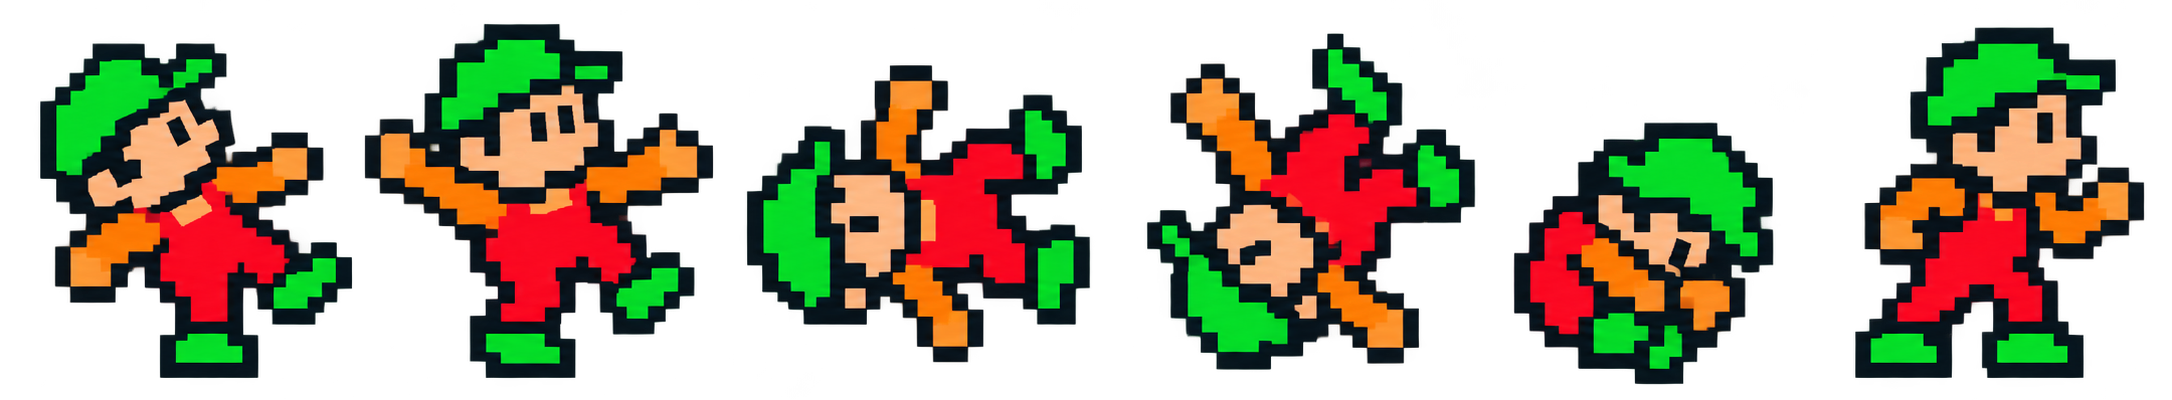
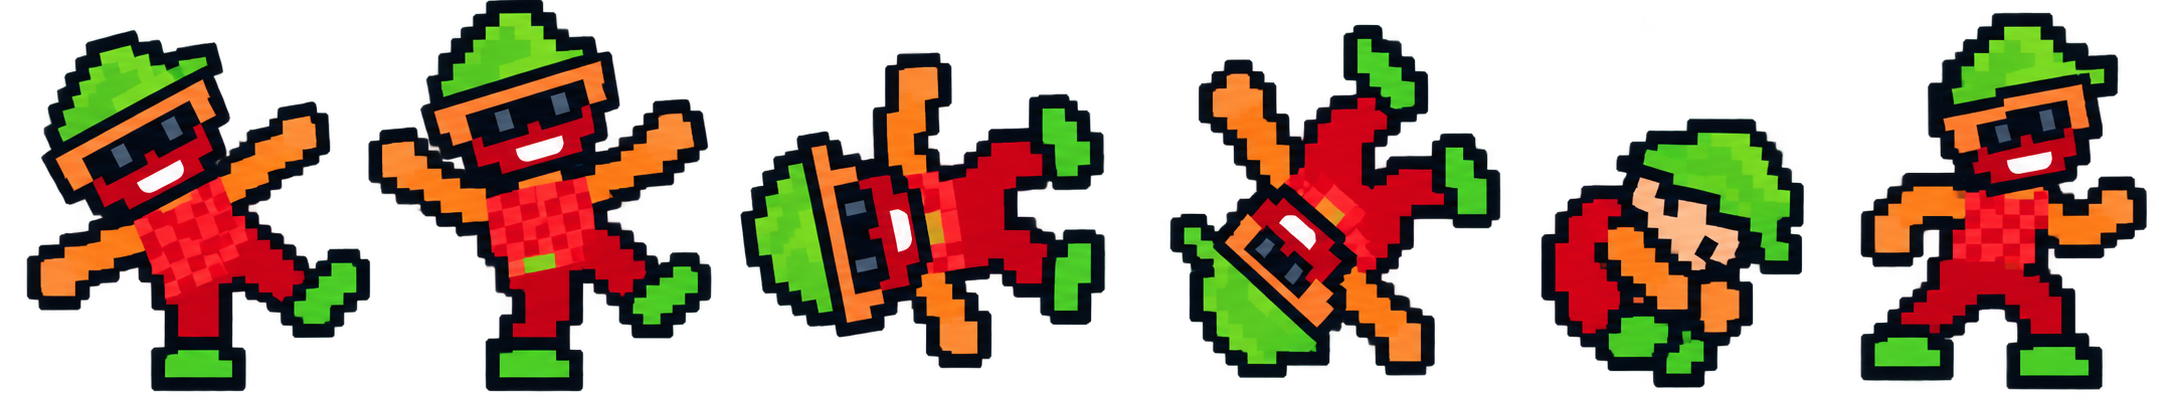
art: align fall sheet with canonical player

diff --git a/docs/asset-provenance.md b/docs/asset-provenance.md
@@ -8,8 +8,9 @@ Date: 2026-10-25
   integrated into the playable miss flow.
 - Source reference: the existing `assets/images/player.png` character sprite.
 - Behavior reference: `FALL` in `assets/BALLOON.BAS`, lines 300 and 440–550.
-- Generated with the Codex built-in image generation tool from the approved
-  character reference and the game's existing pixel-art constraints.
+- Regenerated with the Codex built-in image generation tool using the exact
+  `player.png` character as the visual reference, so the miss poses retain the
+  same man used during catches.
 - Post-processing: cropped to six equal 362×400 frame cells; preserved as an
   RGBA PNG with transparent background.
 - License/provenance status: generated derivative; retain this record with any

diff --git a/CHANGELOG.md b/CHANGELOG.md
@@ -15,6 +15,8 @@
   `FALL` object and documented its provenance for the miss animation.
 - Integrated the fall strip into the miss flow with the original rightward
   zig-zag and upward-exit movement before the next life or result screen.
+- Regenerated the fall strip from the canonical `player.png` character so
+  catch and miss states use one consistent player design.
 
 - Added the dependency-free deterministic `GameSession` rules core for Gate 2.
 - Added seeded selection, catch/miss, held-stack banking, pause, and terminal
